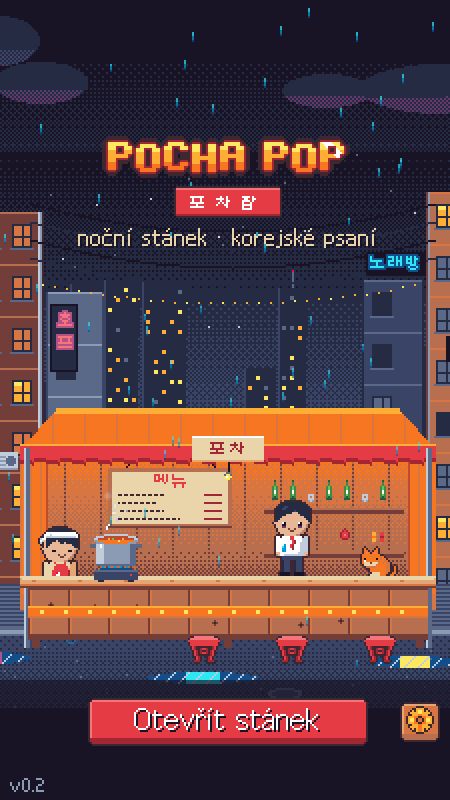
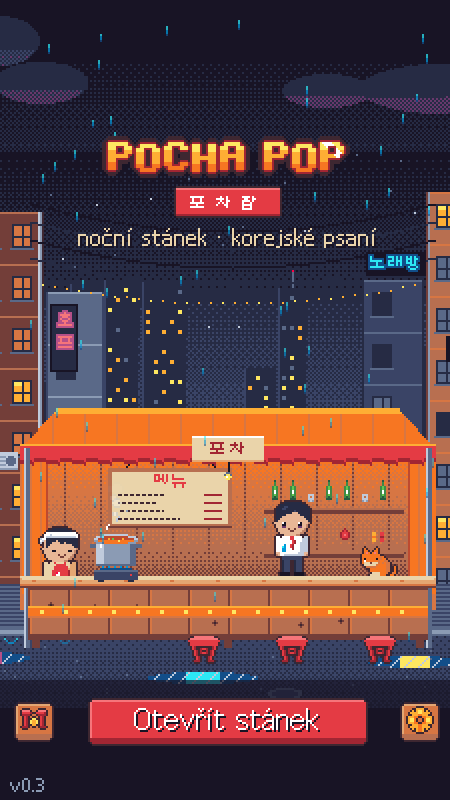
MP5 (2/3): version 0.3.0, README "Hrajeme spolu" (rules, 2 phones on a hotspot, internals, MP tests, deviations: spawn.at, done.clean/hinted, net_kick), AGENTS (structure, commands, MP testing), CAMERA declared, barcode-scanner npm 2.5.3 = crate, refreshed title screenshots; signed APK release/pocha

diff --git a/AGENTS.md b/AGENTS.md
@@ -1,9 +1,9 @@
 # AGENTS.md – Pocha Pop 포차팝
 
-Zadání: `DESIGN.md` (etapa 1) a `DESIGN-2.md` (etapa 2, závazné). Uživatelské info: `README.md`.
+Zadání: `DESIGN.md` (etapa 1), `DESIGN-2.md` (etapa 2) a `DESIGN-3.md` (etapa 3, multiplayer). Uživatelské info: `README.md`.
 
 ## Stack
-Tauri 2 (Rust shell, plugin-store) + Vite 7 + TypeScript 5.9 + **Phaser 3.90.0** (pinned).
+Tauri 2 (Rust shell, plugin-store, plugin-barcode-scanner jen mobil, co-op relay tokio-tungstenite) + Vite 7 + TypeScript 5.9 + **Phaser 3.90.0** (pinned).
 Testy vitest 3. Playwright jen pro screenshoty (`scripts/screenshots.mjs`).
 
 ## Struktura
@@ -23,6 +23,8 @@ src/
     achievements.ts    24 odznáčků (evaluate)
     daily.ts           denní výzva (seed z data, jeden zapsaný pokus)
     training.ts        trénink (výběr slov podle SRS váhy)
+    coop.ts            pravidlo „doběh“: CoopReferee (první/doběh/pozdě, kombo, týmové hvězdy), škálování
+    netproto.ts        co-op protokol: typy zpráv, encode/decode (validace), QR/krátký kód, řazení IP
   data/
     words.json         GENEROVÁNO `npm run words` ze scripts/build-words.ts
     levels.ts          NIGHTS (1–31, bossové 11/116/121/126/131, 약국 201–204, svátky 301–303, denní 900),
@@ -30,7 +32,10 @@ src/
     story.ts           všechny texty příběhu (česky): štamgasti, bossové, pohlednice, finále
     colors.ts clothes.ts travel.ts pharmacy.ts family.ts reactions.ts   tabulky pro mechaniky čtvrtí
   game/                runtime helpery nad Phaserem
-    state.ts           singleton G (save, audio, ime, layout), WORDS, iconTex() (ikony i přebarvené oblečení)
+    state.ts           singleton G (save, audio, ime, layout, net), WORDS, iconTex() (ikony i přebarvené oblečení)
+    net.ts             Transport (TauriTransport = Rust, WsTransport = scripts/mp-relay.mjs) + NetSession (lobby, routing)
+    coopHost.ts        CoopDirector: hostitelův rozvrh zákazníků, trpělivost, rozhodčí → zprávy všem
+    coopui.ts          barvy hráčů, PlayerTag, výběr nocí pro co-op
     orders.ts          stavba objednávek podle mechaniky + věty bossů, alternativní odpovědi (alts)
     hats.ts            čepička sleduje sprite kočky (kotvy hlavy z nabi_head.json)
     achievements.ts    vyhodnocení + toast odznáčků
@@ -39,6 +44,7 @@ src/
     street.ts          scéna ulice: pozadí, stánek, upgrady, déšť/světlušky; DEPTH konstanty
     bubble.ts orders.ts typebox.ts dialogue.ts ui.ts audio.ts debug.ts
   scenes/              Boot Title Setup Story Map Night Result Shop Recipes Settings Paint(Barvírna) Training Badges
+                       Coop (menu + čekárna, QR) CoopJoin CoopResult
 art/
   lib.lua              kreslicí knihovna (paleta Endesga 32 jako písmena, L.RAMPS pro palette swap)
   chargen.lua          generátor postav (characters.lua, characters2.lua, characters3.lua)
@@ -46,7 +52,9 @@ art/
   src/*.lua            jeden skript = jeden/několik spritů → public/assets
 public/assets/         exportované PNG/JSON (commitované), public/sfx/*.wav, public/fonts/
 tests/                 vitest
-src-tauri/             Rust + gen/android (commitované; AndroidManifest má adjustResize + portrait)
+src-tauri/             Rust + gen/android (commitované; AndroidManifest má adjustResize + portrait, síťová oprávnění)
+  src/net.rs           co-op relay (host/klient WebSocket, tauri příkazy net_*, eventy net://*) + cargo testy
+  capabilities/mobile.json   barcode-scanner jen pro android/iOS
 ```
 
 ## Příkazy
@@ -63,6 +71,10 @@ src-tauri/             Rust + gen/android (commitované; AndroidManifest má adj
 | `npm run autoplay` | bot dohraje vybrané noci přes UI (`node scripts/autoplay.mjs 12 116`) |
 | `bash scripts/preview-icons.sh <část>` | izolovaný náhled části ikon (nesahá na public/assets) |
 | `npx vite-node scripts/economy.ts` | simulace ekonomiky (výsledky v README) |
+| `npm run mp-e2e` | co-op E2E: relay + 3 Playwright stránky (`--shots` uloží screenshoty, `NO_BUILD=1`) |
+| `npm run mp-relay` | dev relay pro co-op v prohlížeči (port 47200, stránka `?relay=ws://…:47200`) |
+| `node scripts/mp-bot.mjs [ip:port]` | bot jako host přes skutečný protokol (Tauri pod Xvfb, telefon přes `adb forward`) |
+| `cd src-tauri && CARGO_BUILD_JOBS=4 cargo test --lib` | testy Rust relay |
 | `ANDROID_HOME=/opt/android-sdk NDK_HOME=/opt/android-sdk/ndk/27.0.12077973 npm run tauri android build -- --apk` | APK |
 
 ## Konvence
@@ -83,13 +95,19 @@ src-tauri/             Rust + gen/android (commitované; AndroidManifest má adj
 - Jamo pro noc = keystroke jamo (`jamoSet`) **i** složené / Shift samohlásky (`Night.ready()`): slovo s ㅝ se
   nabídne až po nocí, která ㅝ představila.
 - Přebarvitelné věci kreslit rampou `{hi, main, shade, dark}` z `L.RAMPS`, nikdy runtime tint.
-- Scény s klávesnicí (Night, Training, Paint, Setup) se při změně výšky **nerestartují**, jen přepočítají rozložení.
+- Scény s klávesnicí (Night, Training, Paint, Setup, Coop při psaní jména, CoopJoin) se při změně výšky **nerestartují**, jen přepočítají rozložení.
+- Co-op: Night má režim `coop` (data zprávy `start`); vše o zákaznících jde přes zprávy (`onCoopMsg`), i u hostitele
+  (`NetSession.broadcast` doručí i jemu, `toHost` od hostitele nejde po síti). Single player se nesmí změnit –
+  každá co-op větev je za `if (this.coop)`, regresi hlídá `npm run autoplay`. Nová zpráva = typ + `CHECK` v netproto.ts + test.
 
 ## Testování desktopového okna
 **Nikdy neotevírej Tauri okno na uživatelově ploše.** Použij `scripts/xvfb-tauri.sh start` (virtuální
 X display :99, `GDK_BACKEND=x11`, scratch `XDG_DATA_HOME`), `shot <png>`, `focus`, `key <keysym>`
 (keydown/keyup), `stop`. fcitx5 přes `GTK_IM_MODULE=fcitx` se pod Xvfb chová jinak než nativní Wayland –
 po testu vždy `fcitx5-remote -s keyboard-us` (uživatelův výchozí stav). Prohlížečové testy: `npm run screenshots`.
+Co-op na desktopu: seed save do `/tmp/pocha-xvfb/xdg/cz.rogr.pochapop/pocha-pop.json` (`{"save": "<json>"}` s `coopName`),
+`start`, klik Spolu (32,722) → Založit (225,336), `node scripts/mp-bot.mjs` a klik Otevřít stánek (225,510) při 450×800.
+**Během běhu `tauri dev` needituj `src/`** – Vite reloadne stránku a noc spadne.
 `pkill -f` používej jen s ukotveným vzorem (`'^target/debug/...'`), jinak zabije i vlastní shell.
 
 ## Zdroje počítače
